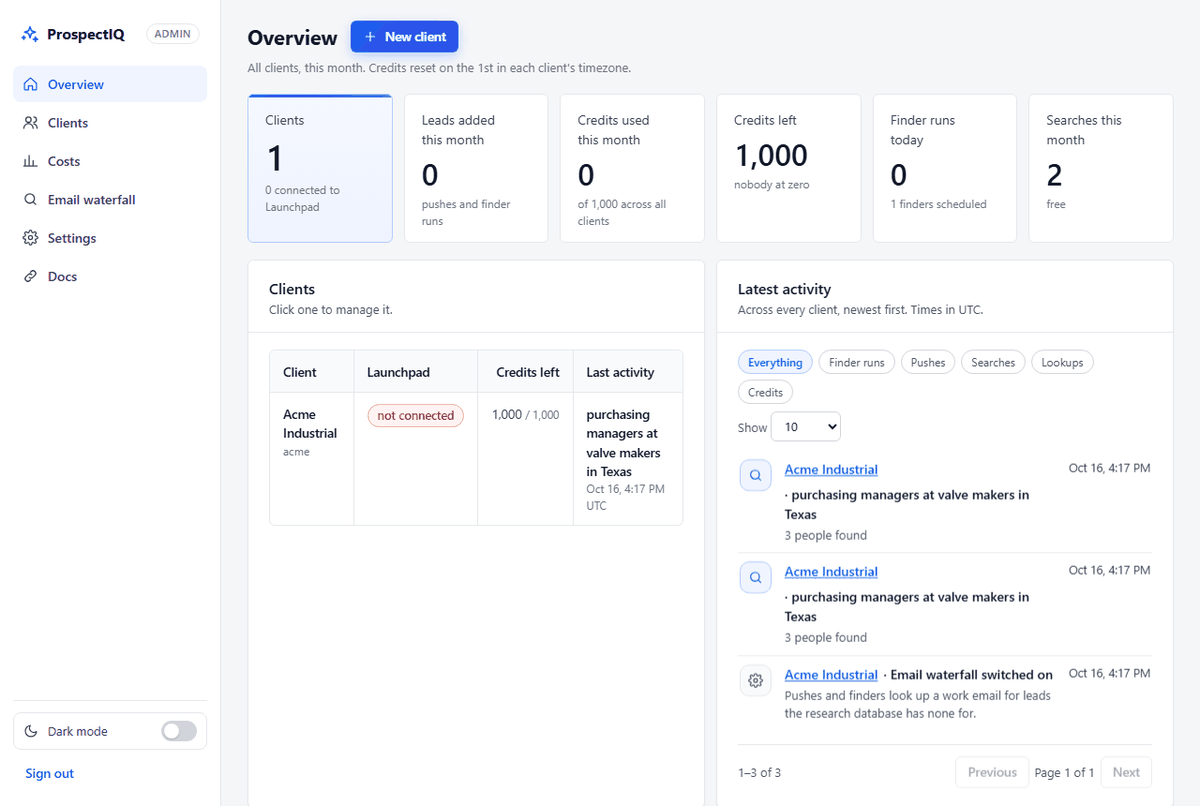
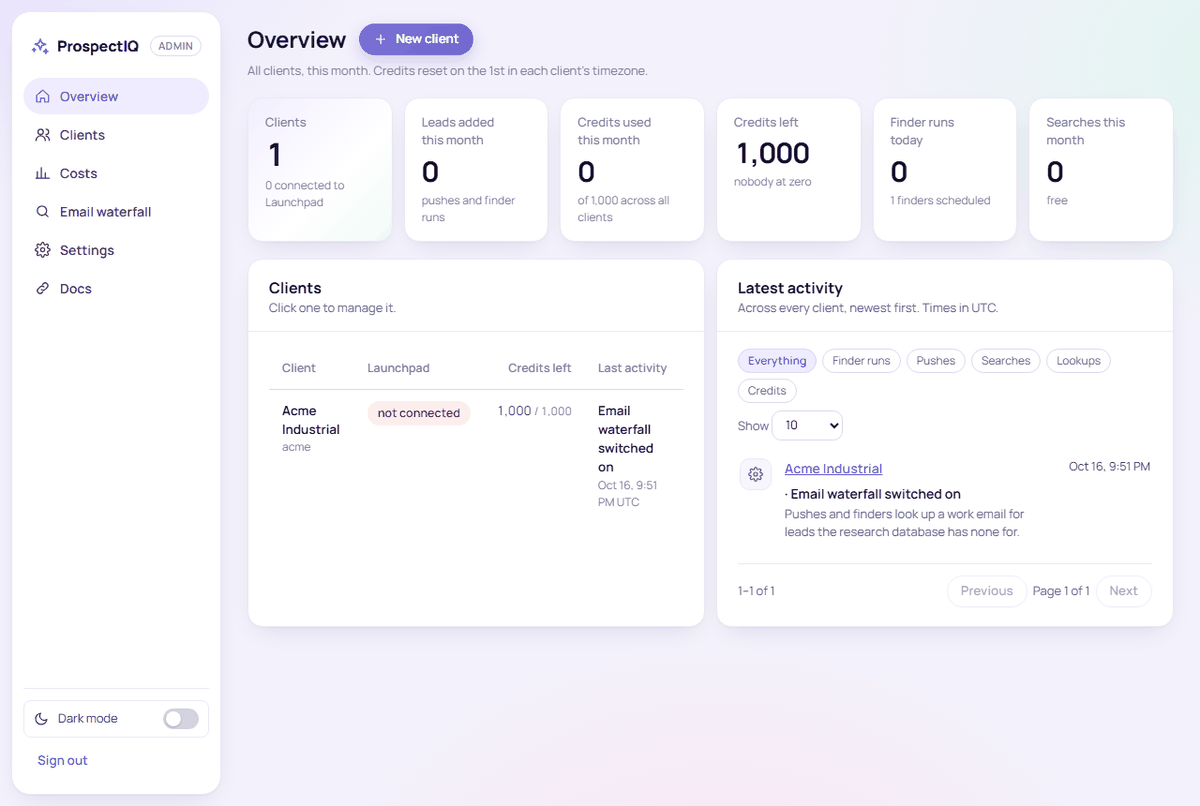
Theme: the LoopAI-style direction from the design reference
A theme layer (client/src/theme.css, loaded last) re-skins the app
without touching structure: a lavender canvas with violet and mint
glows, white cards with 16px corners and one quiet shadow, a pill tab
bar and pill buttons, tinted status pills without outlines, Manrope for
all type, and the Scout stage as a light glow panel instead of the dark
aurora. KPI gradient bars and hover lifts are gone. The admin gets a
floating sidebar panel on the same canvas and matching dark tokens. The
docs pages share the tokens and the typeface. The six docs screenshots
are regenerated in the new look, from sample data.

diff --git a/client/src/theme.css b/client/src/theme.css
@@ -1,0 +1,243 @@
+/* Theme (17 Oct 2026): the LoopAI-style direction from the design reference.
+   A soft lavender canvas with violet and mint glows, white cards with 16px
+   corners and one quiet shadow, pill navigation and pill buttons, tinted
+   status pills, Manrope for all type. One bold moment: the Scout stage.
+   Loaded last, so it only re-skins what styles.css, extra.css and polish.css
+   lay out; nothing structural changes here. */
+
+:root {
+  --font: "Manrope", -apple-system, BlinkMacSystemFont, "Segoe UI", Roboto, "Helvetica Neue", Arial, sans-serif;
+  --bg: #ffffff;
+  --page: #f3f1fb;
+  --surface: #ffffff;
+  --surface-2: #f7f6fc;
+  --border: #ebe8f6;
+  --border-2: #dcd8ee;
+  --text: #16142b;
+  --text-2: #3d3a57;
+  --text-3: #5b5876;
+  --muted: #7b7894;
+  --faint: #a7a4bd;
+  --primary: #6a5ae0;
+  --primary-2: #5847d1;
+  --primary-soft: #efecff;
+  --primary-line: #d3ccff;
+  --ring: rgba(106, 90, 224, 0.2);
+  --accent: #6a5ae0;
+  --mint: #44c9a3;
+  --mint-soft: #e4f7f1;
+  --good: #1fb57b;
+  --good-text: #14805a;
+  --good-soft: #e6f8f0;
+  --bad: #ef5a5a;
+  --bad-text: #b42318;
+  --bad-soft: #fdeeee;
+  --warn-text: #9a5b0b;
+  --warn-soft: #fff6e5;
+  --warn-line: #f5cf7a;
+  --critical: #d92d20;
+  --r: 16px;
+  --r-in: 10px;
+  --shadow: 0 1px 2px rgba(31, 24, 76, 0.04), 0 10px 30px -12px rgba(31, 24, 76, 0.14);
+  --card-shadow: 0 1px 2px rgba(31, 24, 76, 0.04), 0 10px 30px -12px rgba(31, 24, 76, 0.14);
+  --canvas: radial-gradient(900px 520px at -10% -10%, #e4ddff 0%, rgba(228, 221, 255, 0) 60%), radial-gradient(760px 480px at 108% 8%, #dff5ee 0%, rgba(223, 245, 238, 0) 60%), radial-gradient(700px 500px at 60% 115%, #f9e5f1 0%, rgba(249, 229, 241, 0) 60%), #f3f1fb;
+  --f-title: #5847d1; --f-title-bg: #efecff; --f-title-line: #d3ccff;
+  --f-place: #7a3fd8; --f-place-bg: #f4edff; --f-place-line: #dcc8ff;
+}
+
+/* ---- canvas and type ---- */
+body:has(> #root > .top), body:has(> #root > .admin-app) { background: var(--canvas); background-attachment: fixed; }
+body { font-size: 14px; letter-spacing: 0.002em; }
+h1, h2, h3, .top h1, .page-head h1, .card h2, .rhead .n b, .kpi .v { font-family: var(--font); }
+.top h1, .page-head h1 { font-weight: 700; letter-spacing: -0.015em; }
+.card h2, .card-h h2, details.fold > summary h2 { font-weight: 700; }
+
+/* ---- client header: a translucent bar on the canvas, tabs as a pill bar ---- */
+.top { background: rgba(243, 241, 251, 0.82); backdrop-filter: blur(10px); -webkit-backdrop-filter: blur(10px); border-bottom: 1px solid rgba(31, 24, 76, 0.06); box-shadow: none; }
+.tabs { display: inline-flex; flex-wrap: wrap; gap: 2px; margin: -4px 0 20px; padding: 4px; background: rgba(255, 255, 255, 0.72); border: 1px solid var(--border); border-radius: 999px; box-shadow: 0 1px 2px rgba(31, 24, 76, 0.04); }
+.tabs a { margin: 0; padding: 8px 14px; border: 0; border-radius: 999px; font-size: 14px; font-weight: 600; color: var(--text-3); transition: background 0.15s ease, color 0.15s ease; }
+.tabs a .i { color: var(--faint); }
+.tabs a:hover { background: rgba(255, 255, 255, 0.9); color: var(--text); }
+.tabs a.on { color: var(--text); background: #fff; border: 0; box-shadow: 0 1px 2px rgba(31, 24, 76, 0.1), 0 0 0 1px var(--border-2); }
+.tabs a.on .i { color: var(--primary); }
+.badge { border-radius: 999px; }
+
+/* ---- surfaces ---- */
+.card, .kpi, .lead, .finder, .rail, .ptabs-card { border-radius: var(--r); border-color: var(--border); }
+.card, .kpi, .page > .card, .page > section.card, .page > .grid > .card, .rs .card { box-shadow: var(--card-shadow); }
+.kpi { padding: 16px 18px 16px; }
+.kpi::before { display: none; }
+.kpi:hover { transform: none; box-shadow: var(--card-shadow); }
+.kpi .l { font-size: 13px; font-weight: 500; color: var(--muted); }
+.kpi .v { margin-top: 6px; font-size: 30px; font-weight: 700; letter-spacing: -0.02em; }
+.kpi.hero { border-color: var(--border); background: linear-gradient(135deg, #f2efff 0%, #ffffff 60%, #effaf6 100%); }
+.kpi.hero .v { font-size: 34px; }
+.kpi .tr { padding: 2px 9px; font-weight: 600; background: var(--surface-2); border-color: transparent; }
+.kpi .tr.good { background: var(--good-soft); border-color: transparent; }
+.kpi .tr.bad { background: var(--bad-soft); border-color: transparent; }
+.kpis.on-band .kpi { box-shadow: var(--card-shadow); }
+button.kpi:hover { border-color: var(--border-2); box-shadow: var(--card-shadow); }
+button.kpi.open { border-color: var(--primary); box-shadow: 0 0 0 3px var(--ring); }
+.card > .sub, .drill > .sub, .card-h, .rhead, .rsum { border-bottom-color: var(--border); }
+.card-h .ic, details.fold > summary .ic, .emptys .ic { border-radius: 12px; }
+.card-h .ic { color: var(--primary); background: var(--primary-soft); border-color: transparent; }
+details.fold > summary .ic { color: var(--primary); background: var(--primary-soft); border-color: transparent; }
+details.fold > summary { border-radius: var(--r); }
+details.fold[open] > summary { border-radius: var(--r) var(--r) 0 0; }
+details.help > div { border-radius: 14px; }
+.crit { border-radius: 14px; background: var(--surface-2); border-color: transparent; }
+.crit-l { font-size: 12.5px; font-weight: 600; letter-spacing: 0; text-transform: none; color: var(--muted); }
+.autopush { border-radius: 14px; border-color: transparent; }
+.autopush-bar { background: #e6e3f3; }
+.autopush-bar span { background: linear-gradient(90deg, #6a5ae0, #44c9a3); }
+.autopush.out .autopush-bar span { background: linear-gradient(90deg, #f2a93b, #ef5a5a); }
+
+/* ---- buttons: pills ---- */
+.btn { border-radius: 999px; font-weight: 600; font-size: 14.5px; padding: 0 18px; transition: background 0.15s ease, box-shadow 0.15s ease, transform 0.15s ease; }
+.btn:not(.secondary):not(.ghost) { background: linear-gradient(135deg, #7f72f0, #6a5ae0); border-color: transparent; box-shadow: 0 6px 16px rgba(106, 90, 224, 0.26); }
+.btn:not(.secondary):not(.ghost):hover { background: linear-gradient(135deg, #7265e9, #5847d1); box-shadow: 0 8px 20px rgba(106, 90, 224, 0.32); transform: translateY(-1px); }
+.btn.secondary { color: var(--text-2); background: #fff; border-color: var(--border-2); box-shadow: 0 1px 2px rgba(31, 24, 76, 0.05); }
+.btn.secondary:hover { background: var(--surface-2); border-color: #cfcae6; }
+.btn.ghost { color: var(--primary); }
+.btn.ghost:hover { background: var(--primary-soft); }
+.btn.sm { padding: 0 14px; font-size: 13.5px; }
+.copyable .btn.sm { padding: 0 10px; }
+.ask-send { background: linear-gradient(135deg, #7f72f0, #6a5ae0); box-shadow: 0 6px 16px rgba(106, 90, 224, 0.3); }
+.ask-send:hover { background: linear-gradient(135deg, #7265e9, #5847d1); box-shadow: 0 10px 22px rgba(106, 90, 224, 0.38); }
+
+/* ---- inputs ---- */
+input[type=text], input[type=password], input[type=email], input[type=number], input[type=search], input[type=date], input[type=time], textarea, select.in, .sel, .chips, .rows select, .lead select.role { border-radius: var(--r-in); border-color: var(--border-2); }
+.sel { border-radius: 999px; }
+.chips .ch { color: var(--primary-2); background: var(--primary-soft); border-color: transparent; }
+.chips .ch button { color: var(--primary-2); }
+.chips .ch button:hover { background: var(--primary-line); }
+.sugg button { border-radius: 999px; }
+.sugg button:hover { color: var(--primary-2); border-color: var(--primary-line); background: var(--primary-soft); }
+.search-row input { border-radius: 999px; padding-left: 16px; }
+.seg { border-radius: 999px; overflow: hidden; }
+.seg button { font-weight: 600; }
+.ptabs { border-radius: 999px; background: var(--surface-2); border-color: transparent; }
+.ptabs button { border-radius: 999px; font-weight: 600; }
+.ptabs button.on { background: #fff; box-shadow: 0 1px 2px rgba(31, 24, 76, 0.1), 0 0 0 1px var(--border-2); }
+.ptabs .cnt { background: var(--primary); }
+details.fg summary .cnt { background: var(--primary); }
+.switch.on { background: var(--primary); }
+
+/* ---- pills: tinted, no outline ---- */
+.chip, .pill { padding: 3px 10px; font-size: 12.5px; font-weight: 600; color: var(--text-2); background: var(--surface-2); border-color: transparent; }
+.pill.won, .pill.good { color: var(--good-text); background: var(--good-soft); border-color: transparent; }
+.pill.lost, .pill.abandoned, .pill.bad { color: var(--bad-text); background: var(--bad-soft); border-color: transparent; }
+.pill.blue { color: var(--primary-2); background: var(--primary-soft); border-color: transparent; }
+.pill.hot { color: #9a4e0a; background: #fff1dc; border-color: transparent; }
+.pill.high { color: var(--primary-2); background: var(--primary-soft); border-color: transparent; }
+.chip.products { color: var(--primary-2); background: var(--primary-soft); border-color: transparent; }
+.chip.associates { color: #9a5b0b; background: var(--warn-soft); border-color: transparent; }
+.fpill { border-radius: 999px; }
+.kw span { background: var(--surface-2); border-color: transparent; }
+.finder .state { border-color: transparent; }
+.finder .state.on { border-color: transparent; }
+.finder .res { background: var(--primary-soft); border-color: transparent; color: var(--text-2); }
+.finder .res .i { color: var(--primary); }
+.crit-h .cnt { border-color: transparent; }
+
+/* ---- tables: hairlines, no outer frame ---- */
+table { border: 0; border-radius: 0; overflow: visible; }
+th { background: transparent; color: var(--muted); font-size: 12.5px; font-weight: 600; border-right: 0; border-bottom: 1px solid var(--border-2); }
+td { border-right: 0; border-bottom-color: var(--border); }
+tbody tr:hover td { background: #f8f7fd; }
+.rows tbody tr.sel td { background: var(--primary-soft); }
+.rows tbody tr.sel:hover td { background: #e8e4ff; }
+.rows tbody tr:hover td { background: #f8f7fd; }
+.clients tr:hover td { background: #f8f7fd; }
+details.tbl table { border-radius: 0; }
+.rows .logo { border-radius: 8px; }
+.pager { border-top-color: var(--border); }
+a.lp:hover { color: var(--primary-2); }
+a.lp:hover .ext { color: var(--primary); }
+
+/* ---- lead cards ---- */
+.lead { border-radius: 14px; box-shadow: var(--card-shadow); transition: box-shadow 0.18s ease, border-color 0.18s ease; }
+.cards .lead:hover { transform: none; border-color: var(--border-2); box-shadow: 0 1px 2px rgba(31, 24, 76, 0.05), 0 14px 34px -14px rgba(31, 24, 76, 0.22); }
+.lead:has(input:checked) { border-color: var(--primary); box-shadow: 0 0 0 3px var(--ring); }
+.lead .fit { border-radius: 10px; background: var(--primary-soft); border-left-color: var(--primary); }
+.cards .lead.hot { border-color: #f5cf7a; box-shadow: inset 3px 0 0 #f2a93b, var(--card-shadow); }
+.cards .lead.high { box-shadow: inset 3px 0 0 var(--primary-line), var(--card-shadow); }
+.rows tr.hot td:first-child { box-shadow: inset 3px 0 0 #f2a93b; }
+.rows tr.high td:first-child { box-shadow: inset 3px 0 0 var(--primary-line); }
+.pushbar, .results .pushbar { border-radius: var(--r); border: 1px solid var(--border); box-shadow: 0 -2px 10px rgba(31, 24, 76, 0.05), var(--card-shadow); background: rgba(255, 255, 255, 0.94); backdrop-filter: blur(8px); }
+
+/* ---- the Scout stage: light glow panel, the one bold element ---- */
+.ask-stage { color: var(--text); background: #ffffff; border: 1px solid var(--border); border-radius: 20px; box-shadow: var(--card-shadow); padding: 54px 24px 36px; }
+.ask-stage::before { inset: 0; height: auto; background: radial-gradient(640px 320px at 18% 0%, #ebe6ff 0%, rgba(235, 230, 255, 0) 60%), radial-gradient(520px 300px at 92% 10%, #dcf6ee 0%, rgba(220, 246, 238, 0) 60%), radial-gradient(500px 280px at 55% 110%, #fbe8f3 0%, rgba(251, 232, 243, 0) 60%); animation: none; opacity: 1; }
+.ask-stage::after { display: none; }
+.ask-stage h2 { color: var(--text); font-size: 34px; font-weight: 700; letter-spacing: -0.02em; text-shadow: none; }
+.ask-stage p { color: var(--text-3); }
+.ask-stage .ask-note { color: var(--muted); }
+.ask-kicker { color: var(--primary-2); background: var(--primary-soft); border: 0; font-weight: 600; }
+.ask-kicker.dark { color: var(--primary-2); background: var(--primary-soft); border: 0; }
+.ask-pill { border: 1px solid var(--border-2); box-shadow: 0 1px 2px rgba(31, 24, 76, 0.05), 0 16px 40px -16px rgba(31, 24, 76, 0.25); border-radius: 999px; }
+.ask-stage .ask-pill { border-color: var(--border-2); }
+.ask-stage .ask-pill:focus-within { transform: none; box-shadow: 0 0 0 4px var(--ring), 0 16px 40px -16px rgba(31, 24, 76, 0.25); }
+.ask-pill:focus-within { box-shadow: 0 0 0 4px var(--ring), 0 16px 40px -16px rgba(31, 24, 76, 0.25); }
+.ask-stage .ask-ex { gap: 8px; margin-top: 18px; }
+.ask-stage .ask-ex a { color: var(--text-2); background: #fff; border: 1px solid var(--border); border-radius: 12px; padding: 9px 14px; font-weight: 500; box-shadow: 0 1px 2px rgba(31, 24, 76, 0.04); backdrop-filter: none; }
+.ask-stage .ask-ex a:hover { color: var(--primary-2); border-color: var(--primary-line); background: var(--primary-soft); }
+.ask-ex a:hover { color: var(--primary-2); border-color: var(--primary-line); background: var(--primary-soft); }
+.ask-hero.compact .ask-pill { box-shadow: var(--card-shadow); }
+.ask-pill .ask-spark { color: var(--primary); }
+.tpl a:hover { color: var(--primary-2); }
+.recent a:hover .rq { color: var(--primary-2); }
+
+/* ---- admin: a floating sidebar panel on the same canvas ---- */
+.admin-app { background: var(--canvas); background-attachment: fixed; column-gap: 0; }
+.admin-app .side { top: 12px; height: calc(100vh - 24px); margin: 12px 0 12px 12px; padding: 18px 12px; background: var(--surface); border: 1px solid var(--border); border-radius: 20px; box-shadow: var(--card-shadow); }
+.side .brand { font-weight: 800; letter-spacing: -0.01em; }
+.side .brand span { border-radius: 999px; border-color: var(--border-2); }
+.side nav a { border-radius: 999px; padding: 9px 12px; font-weight: 600; }
+.side nav a:hover { background: var(--surface-2); }
+.side nav a.on { background: var(--primary-soft); color: var(--primary-2); }
+.side nav a.on .i { color: var(--primary); }
+.side .side-foot .btn { border-radius: 999px; }
+.admin-app .main { padding: 24px 28px 48px; }
+.page-head h1 { font-size: 24px; }
+.kv code, .keybox { border-radius: 8px; }
+.savebar { border-top-color: var(--border); }
+.feed .ev { border-top-color: var(--border); }
+
+/* ---- admin dark ---- */
+html[data-admin-theme="dark"] .admin-app {
+  --bg: #15132a; --page: #15132a; --surface: #1d1b36; --surface-2: #242143;
+  --border: #2f2c52; --border-2: #3d3966;
+  --text: #ecebfa; --text-2: #cfcde6; --text-3: #b3b0d0; --muted: #8f8cae; --faint: #67648a;
+  --primary: #978aff; --primary-2: #ab9fff; --primary-soft: #272352; --primary-line: #463f8a; --ring: rgba(151, 138, 255, 0.3);
+  --mint: #6fe0bd; --mint-soft: #103125; --good-soft: #103125; --bad-soft: #35181c; --warn-soft: #332814; --warn-line: #6a4e14;
+  --card-shadow: 0 1px 2px rgba(0, 0, 0, 0.3), 0 12px 32px -12px rgba(0, 0, 0, 0.5);
+  --canvas: radial-gradient(900px 520px at -10% -10%, #2a2360 0%, rgba(42, 35, 96, 0) 60%), radial-gradient(760px 480px at 108% 8%, #11362d 0%, rgba(17, 54, 45, 0) 60%), #15132a;
+}
+html[data-admin-theme="dark"] .admin-app .kpi.hero { background: linear-gradient(135deg, #262252 0%, #1d1b36 60%, #16302a 100%); border-color: var(--border); }
+html[data-admin-theme="dark"] .admin-app .pill.good { color: #6fe0bd; background: #103125; border-color: transparent; }
+html[data-admin-theme="dark"] .admin-app .pill.bad { color: #f59a9a; background: #35181c; border-color: transparent; }
+html[data-admin-theme="dark"] .admin-app .pill.blue, html[data-admin-theme="dark"] .admin-app .chips .ch, html[data-admin-theme="dark"] .admin-app .pill.high { color: #c3baff; background: #272352; border-color: transparent; }
+html[data-admin-theme="dark"] .admin-app .pill.hot { color: #ffc87a; background: #3a2a10; border-color: transparent; }
+html[data-admin-theme="dark"] .admin-app .chip, html[data-admin-theme="dark"] .admin-app .pill { background: var(--surface-2); color: var(--text-2); }
+html[data-admin-theme="dark"] .admin-app .pill.good, html[data-admin-theme="dark"] .admin-app .pill.bad, html[data-admin-theme="dark"] .admin-app .pill.blue, html[data-admin-theme="dark"] .admin-app .pill.high, html[data-admin-theme="dark"] .admin-app .pill.hot { background: revert-layer; }
+html[data-admin-theme="dark"] .admin-app .ok { background: #103125; border-color: #1f5a44; color: #bfeedd; }
+html[data-admin-theme="dark"] .admin-app .err { background: #35181c; border-color: #6b2a2f; color: #f8c9c9; }
+html[data-admin-theme="dark"] .admin-app .ptabs button.on, html[data-admin-theme="dark"] .admin-app .tabs a.on { background: var(--surface); color: var(--text); box-shadow: 0 0 0 1px var(--border-2); }
+html[data-admin-theme="dark"] .admin-app .btn.secondary { background: var(--surface-2); color: var(--text); border-color: var(--border-2); box-shadow: none; }
+html[data-admin-theme="dark"] .admin-app .btn:not(.secondary):not(.ghost) { background: linear-gradient(135deg, #8f82ff, #6f5ff0); color: #fff; }
+html[data-admin-theme="dark"] .admin-app tbody tr:hover td, html[data-admin-theme="dark"] .admin-app .rows tbody tr:hover td, html[data-admin-theme="dark"] .admin-app .clients tr:hover td { background: var(--surface-2); }
+html[data-admin-theme="dark"] .admin-app .rows tbody tr.sel td { background: var(--primary-soft); }
+html[data-admin-theme="dark"] .admin-app .kpi .tr { background: var(--surface-2); color: var(--text-2); }
+html[data-admin-theme="dark"] .admin-app .kpi .tr.good { background: #103125; color: #6fe0bd; }
+html[data-admin-theme="dark"] .admin-app .kpi .tr.bad { background: #35181c; color: #f59a9a; }
+html[data-admin-theme="dark"] .admin-app .autopush-bar { background: #2f2c52; }
+html[data-admin-theme="dark"] .admin-app .crit, html[data-admin-theme="dark"] .admin-app .autopush { background: var(--surface-2); }
+
+@media (prefers-reduced-motion: reduce) {
+  .btn, .tabs a, .lead { transition: none; }
+}
+@media (max-width: 680px) {
+  .tabs { border-radius: 18px; }
+  .admin-app .side { height: auto; margin: 10px; border-radius: 16px; }
+}

diff --git a/server/src/docs.ts b/server/src/docs.ts
@@ -113,13 +113,16 @@ function layout(page: DocPage, body: string, toc: { id: string; text: string }[]
 <meta name="robots" content="noindex">
 <link rel="icon" type="image/svg+xml" href="${v.base}/favicon.svg">
 <link rel="apple-touch-icon" href="${v.base}/apple-touch-icon.png">
-<meta name="theme-color" content="#155eef">
+<meta name="theme-color" content="#6a5ae0">
+<link rel="preconnect" href="https://fonts.googleapis.com">
+<link rel="preconnect" href="https://fonts.gstatic.com" crossorigin>
+<link rel="stylesheet" href="https://fonts.googleapis.com/css2?family=Manrope:wght@400;500;600;700;800&display=swap">
 <title>${esc(page.title)} · ProspectIQ</title>
 <style>
-:root { color-scheme: light; --bg: #ffffff; --page: #f3f4f6; --surface: #ffffff; --border: #e5e7eb; --border-2: #d1d5db; --text: #111827; --text-2: #374151; --muted: #6b7280; --primary: #155eef; --primary-soft: #eff4ff; --primary-line: #b2ccff; --accent: #f26a2a; --code: #f3f4f6; }
-@media (prefers-color-scheme: dark) { :root { color-scheme: dark; --bg: #0b1220; --page: #0b1220; --surface: #111a2b; --border: #243049; --border-2: #324060; --text: #e5e7eb; --text-2: #cbd5e1; --muted: #94a3b8; --primary: #6ea0ff; --primary-soft: #16233d; --primary-line: #2f4a7a; --code: #16213a; } }
+:root { color-scheme: light; --bg: #ffffff; --page: #f3f1fb; --surface: #ffffff; --border: #ebe8f6; --border-2: #dcd8ee; --text: #16142b; --text-2: #3d3a57; --muted: #7b7894; --primary: #6a5ae0; --primary-soft: #efecff; --primary-line: #d3ccff; --accent: #6a5ae0; --code: #f3f1fb; }
+@media (prefers-color-scheme: dark) { :root { color-scheme: dark; --bg: #15132a; --page: #15132a; --surface: #1d1b36; --border: #2f2c52; --border-2: #3d3966; --text: #ecebfa; --text-2: #cfcde6; --muted: #8f8cae; --primary: #978aff; --primary-soft: #272352; --primary-line: #463f8a; --code: #242143; } }
 * { box-sizing: border-box; }
-html, body { margin: 0; background: var(--page); color: var(--text); font: 15px/1.6 -apple-system, BlinkMacSystemFont, "Segoe UI", Roboto, Inter, Helvetica, Arial, sans-serif; }
+html, body { margin: 0; background: var(--page); color: var(--text); font: 15px/1.6 "Manrope", -apple-system, BlinkMacSystemFont, "Segoe UI", Roboto, Inter, Helvetica, Arial, sans-serif; }
 a { color: var(--primary); text-decoration: none; }
 a:hover { text-decoration: underline; }
 .wrap { display: grid; grid-template-columns: 280px minmax(0, 1fr); min-height: 100vh; }

diff --git a/client/index.html b/client/index.html
@@ -7,7 +7,10 @@
     <link rel="icon" type="image/svg+xml" href="/favicon.svg" />
     <link rel="icon" type="image/png" sizes="32x32" href="/favicon-32.png" />
     <link rel="apple-touch-icon" href="/apple-touch-icon.png" />
-    <meta name="theme-color" content="#155eef" />
+    <meta name="theme-color" content="#6a5ae0" />
+    <link rel="preconnect" href="https://fonts.googleapis.com" />
+    <link rel="preconnect" href="https://fonts.gstatic.com" crossorigin />
+    <link rel="stylesheet" href="https://fonts.googleapis.com/css2?family=Manrope:wght@400;500;600;700;800&display=swap" />
     <title>ProspectIQ</title>
   </head>
   <body>

diff --git a/client/src/main.tsx b/client/src/main.tsx
@@ -5,6 +5,7 @@ import App from './App';
 import './styles.css';
 import './extra.css';
 import './polish.css';
+import './theme.css';
 import { BASE } from './api';
 
 createRoot(document.getElementById('root')!).render(
